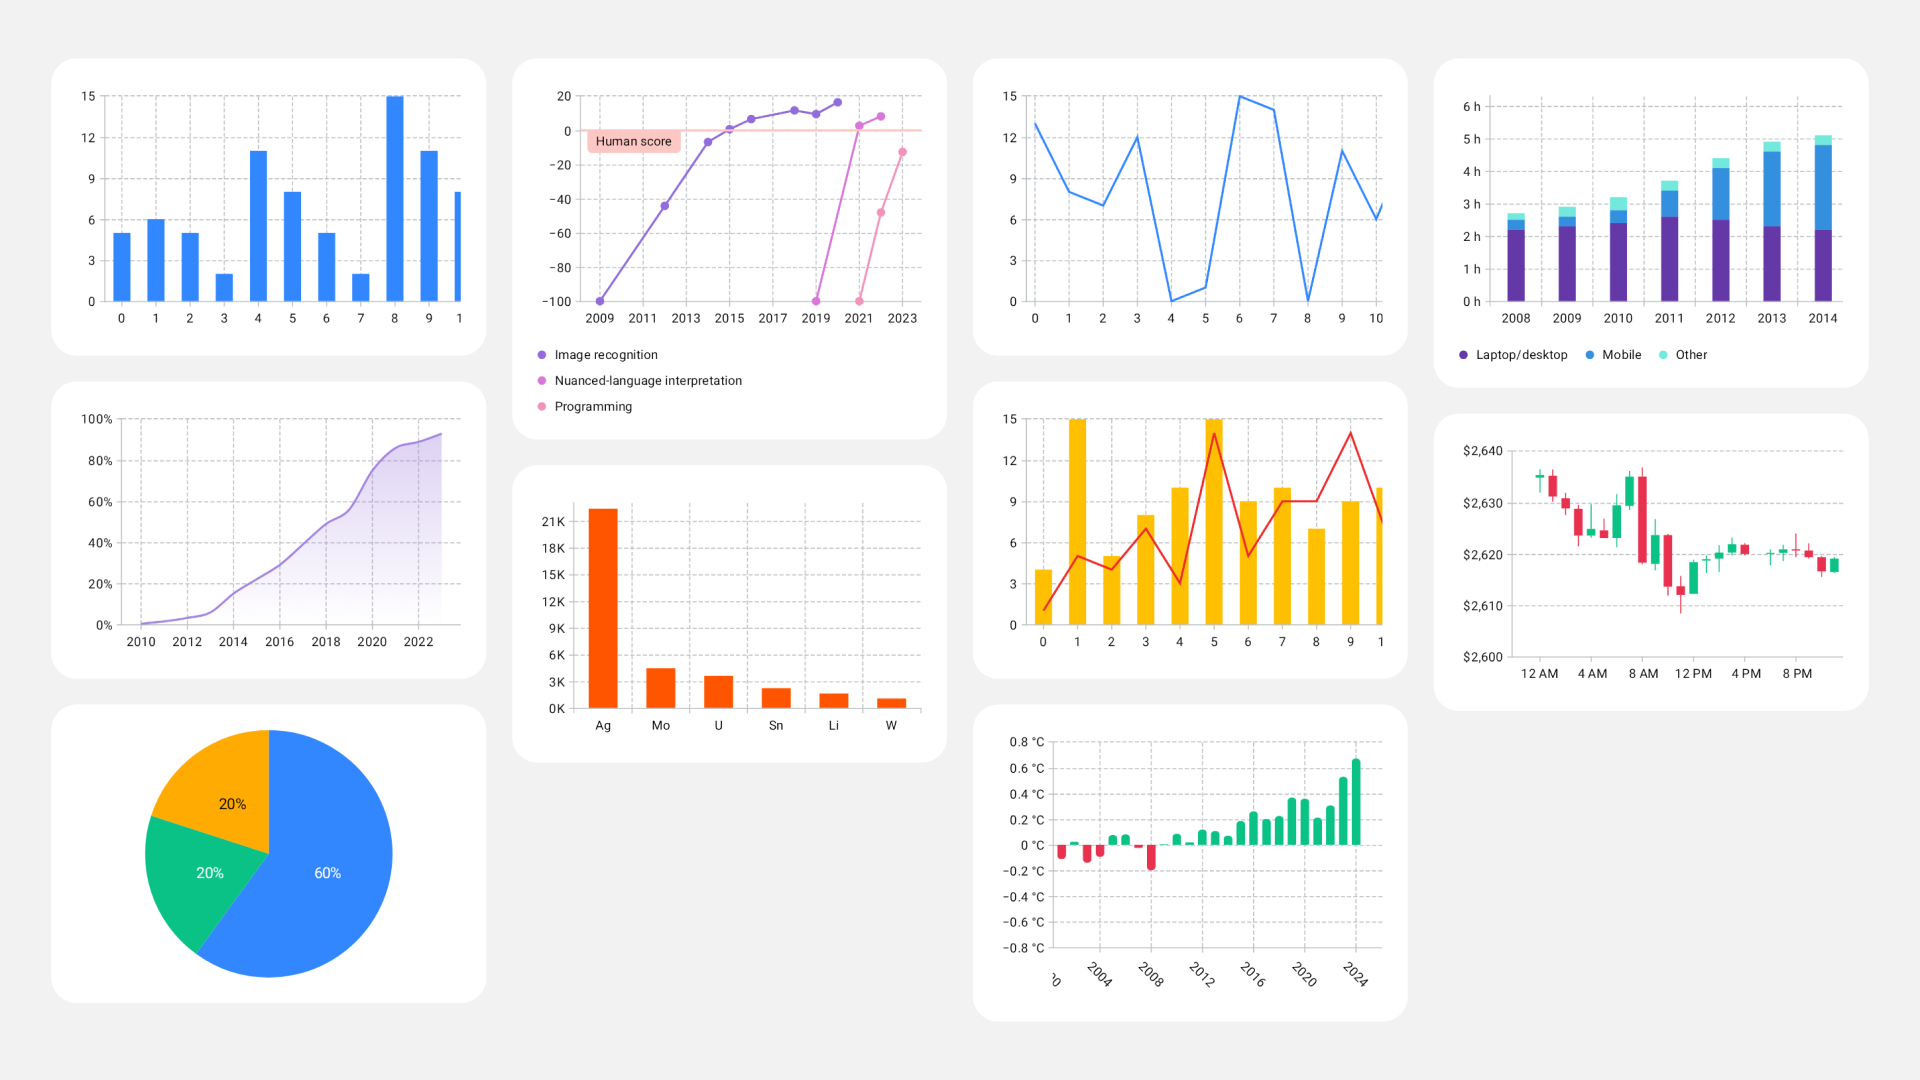
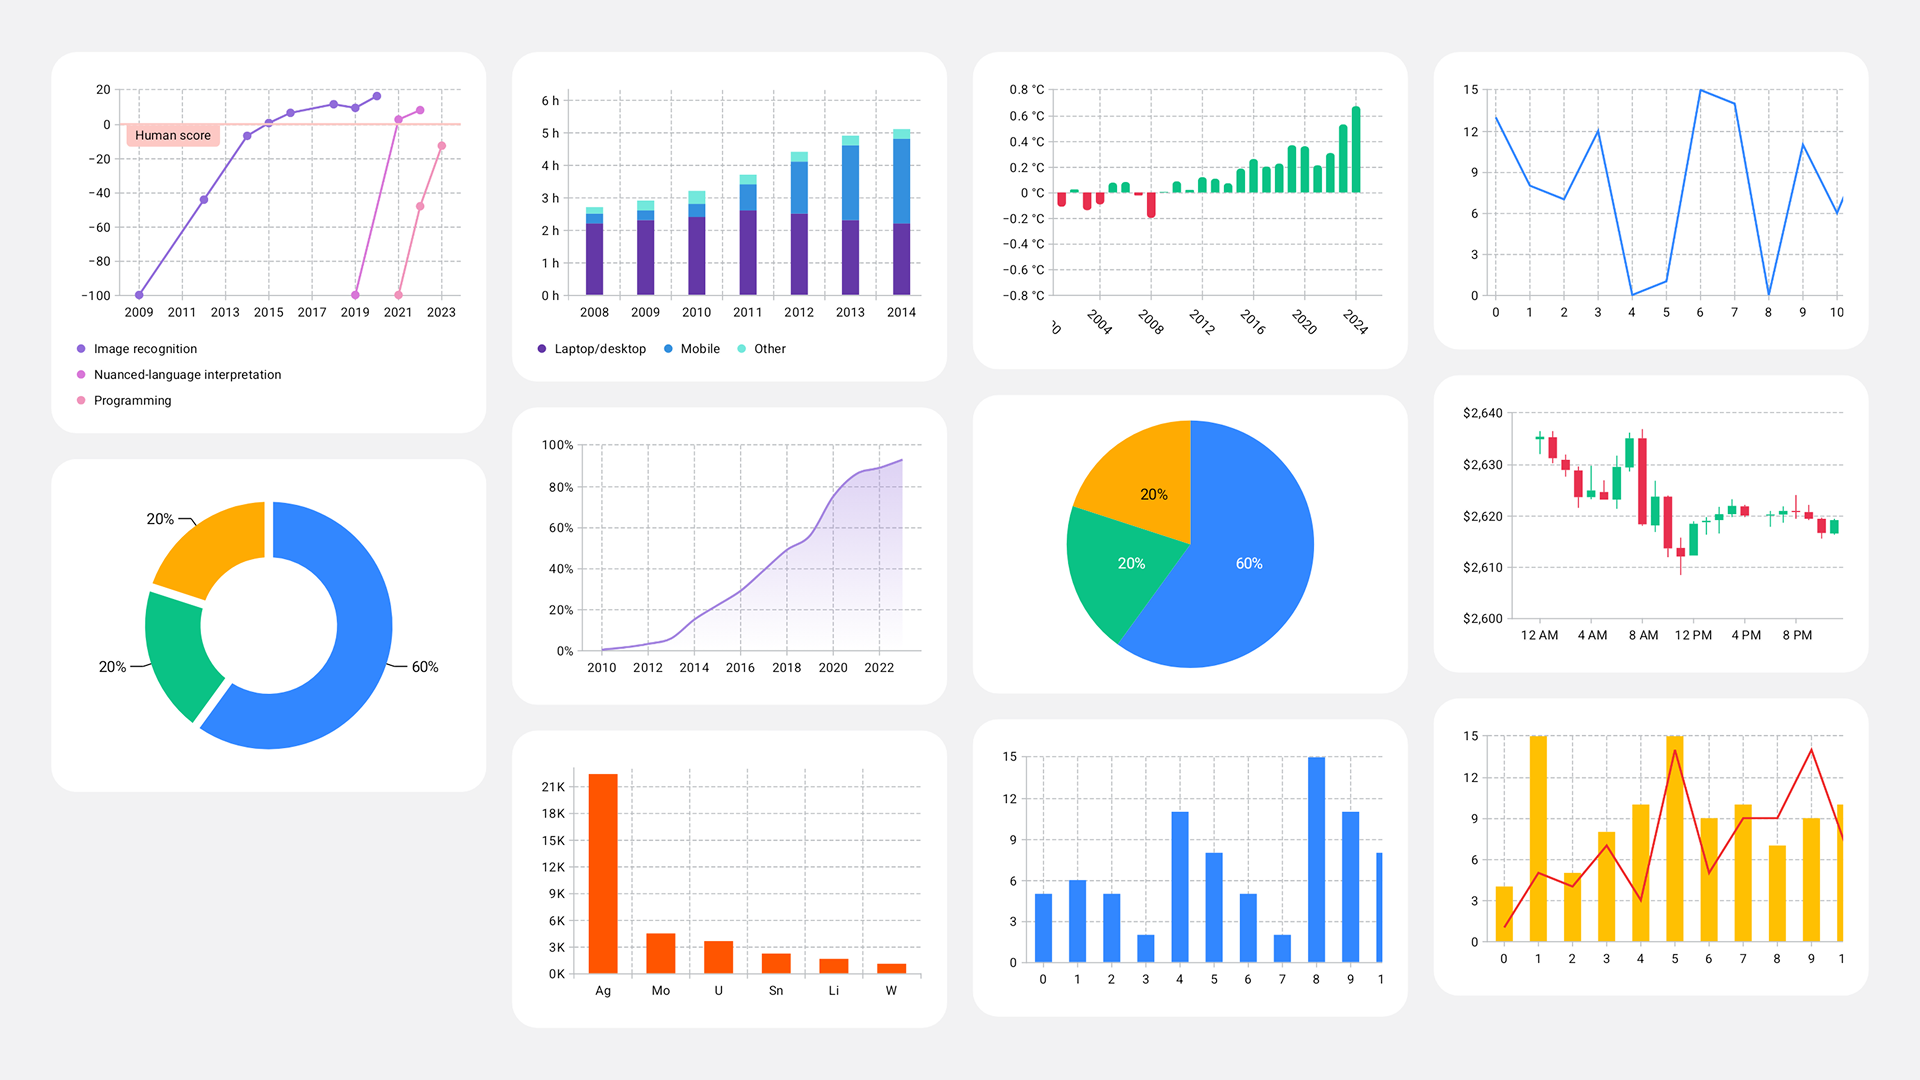
feat(sample): add donut chart to cover

diff --git a/sample/shared/src/commonMain/kotlin/com/patrykandpatrick/vico/sample/charts/Cover.kt b/sample/shared/src/commonMain/kotlin/com/patrykandpatrick/vico/sample/charts/Cover.kt
@@ -42,22 +42,23 @@ internal fun Cover() {
     Box(contentAlignment = Alignment.Center) {
       Row(Modifier.background(Color(0xfff2f2f3)).padding(48.dp), Arrangement.spacedBy(24.dp)) {
         Column {
-          Card { ComposeBasicColumnChartPreview() }
-          Card { ComposeElectricCarSalesPreview() }
-          Card { ComposeBasicPieChartPreview() }
-        }
-        Column {
           Card { ComposeAITestScoresPreview() }
-          Card { ComposeRockMetalRatiosPreview() }
-        }
-        Column {
-          Card { ComposeBasicLineChartPreview() }
-          Card { ComposeBasicComboChartPreview() }
-          Card { ComposeTemperatureAnomaliesPreview() }
+          Card { ComposeBasicDonutChartPreview() }
         }
         Column {
           Card { ComposeDailyDigitalMediaUsePreview() }
+          Card { ComposeElectricCarSalesPreview() }
+          Card { ComposeRockMetalRatiosPreview() }
+        }
+        Column {
+          Card { ComposeTemperatureAnomaliesPreview() }
+          Card { ComposeBasicPieChartPreview() }
+          Card { ComposeBasicColumnChartPreview() }
+        }
+        Column {
+          Card { ComposeBasicLineChartPreview() }
           Card { ComposeGoldPricesPreview() }
+          Card { ComposeBasicComboChartPreview() }
         }
       }
     }
